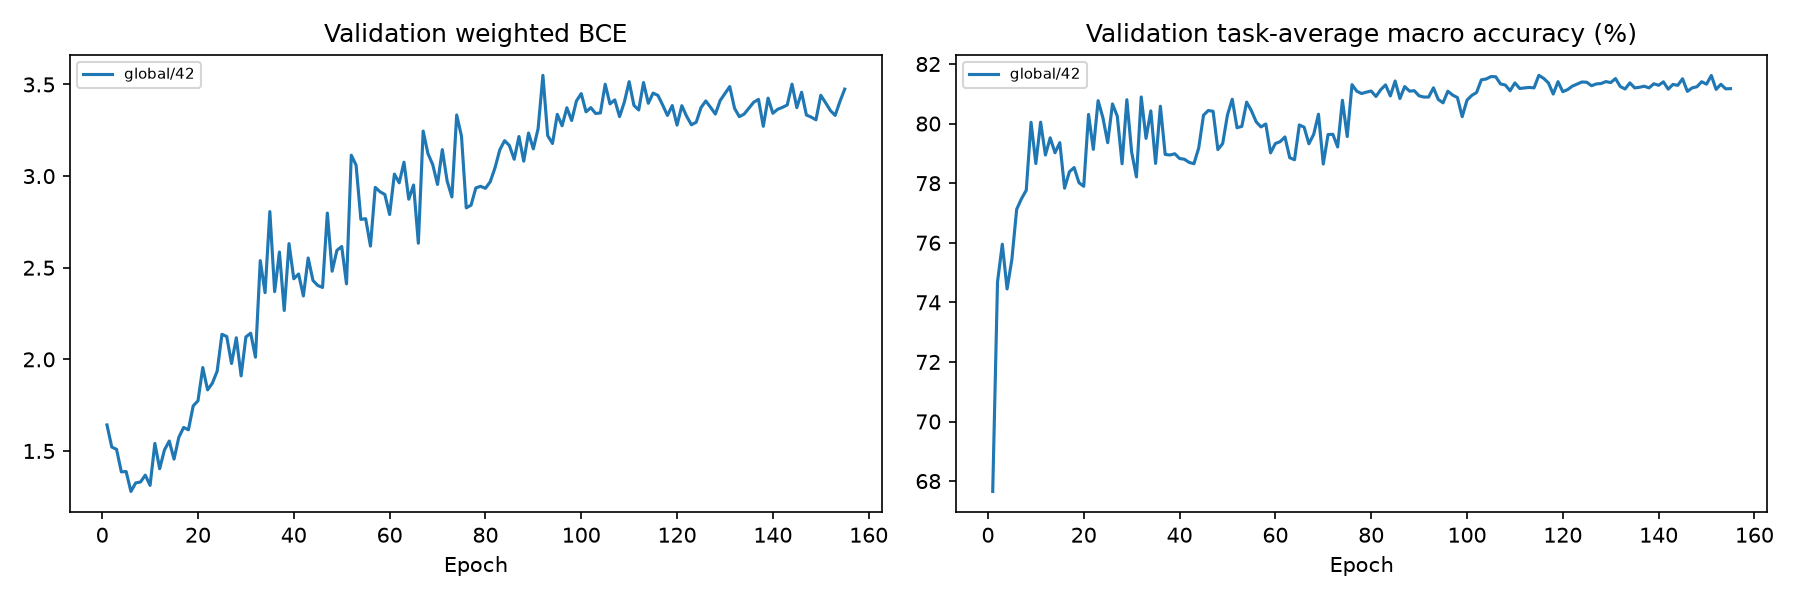
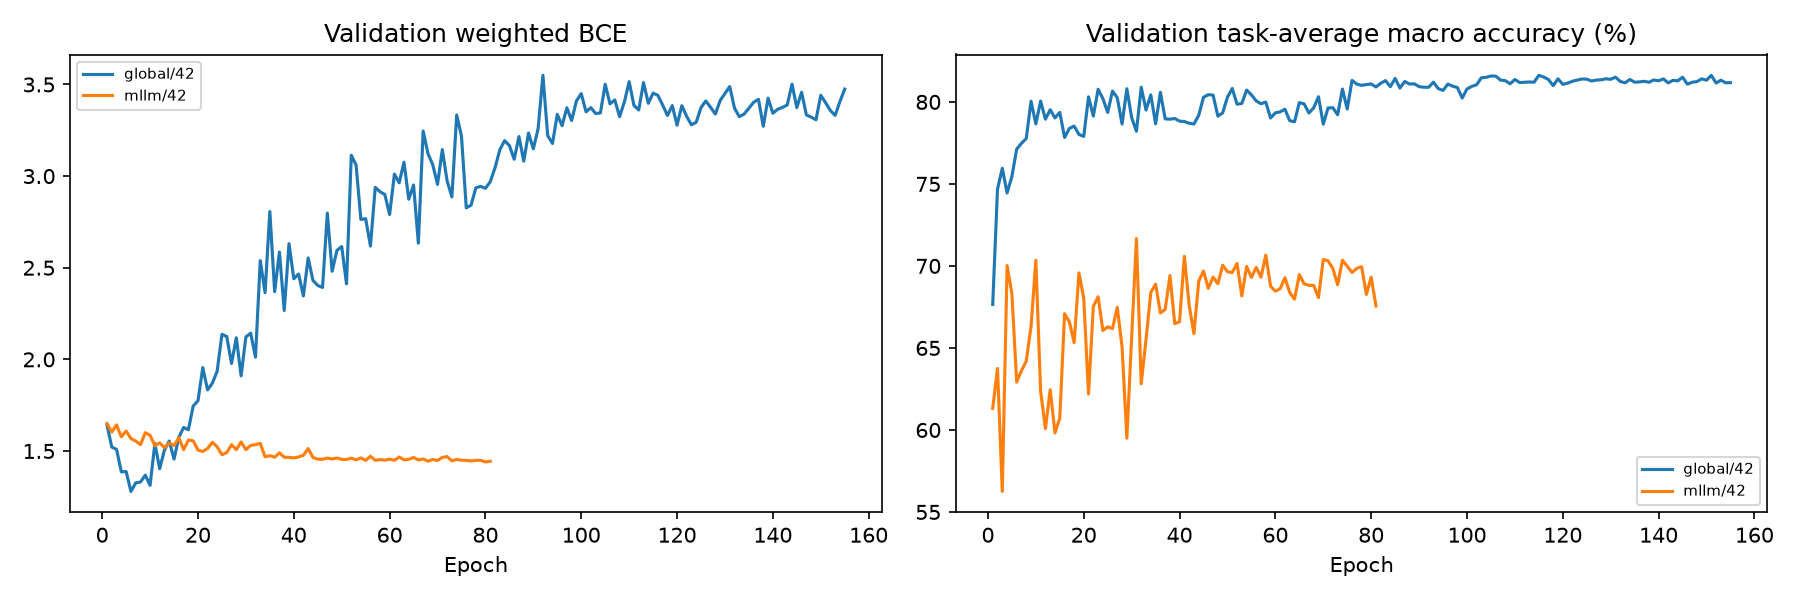
results: mllm seed 42 reproduction milestone

diff --git a/reports/reproduction/20261005_042629_774918_suite/reproduction_report.md b/reports/reproduction/20261005_042629_774918_suite/reproduction_report.md
@@ -10,6 +10,7 @@ code_compat 保留独立七图增强、无 ImageNet normalization、global-only 
 | 模型 | seed | best epoch (0-based) | 证候 Acc / F1 (%) | 脏腑 Acc / F1 (%) |
 | --- | ---: | ---: | ---: | ---: |
 | global | 42 | 104 | 85.32 / 69.88 | 78.79 / 81.18 |
+| mllm | 42 | 30 | 74.32 / 62.09 | 69.68 / 77.20 |
 
 六组消融和主模型多 seed 的运行状态见 `run_status.json`；未完成时不宣称整个复现完成。
 TVMoE 等外部实现/同 split 逐图预测、论文 Sankey 8×5 公式仍缺失，不能复现对应比较和图。
